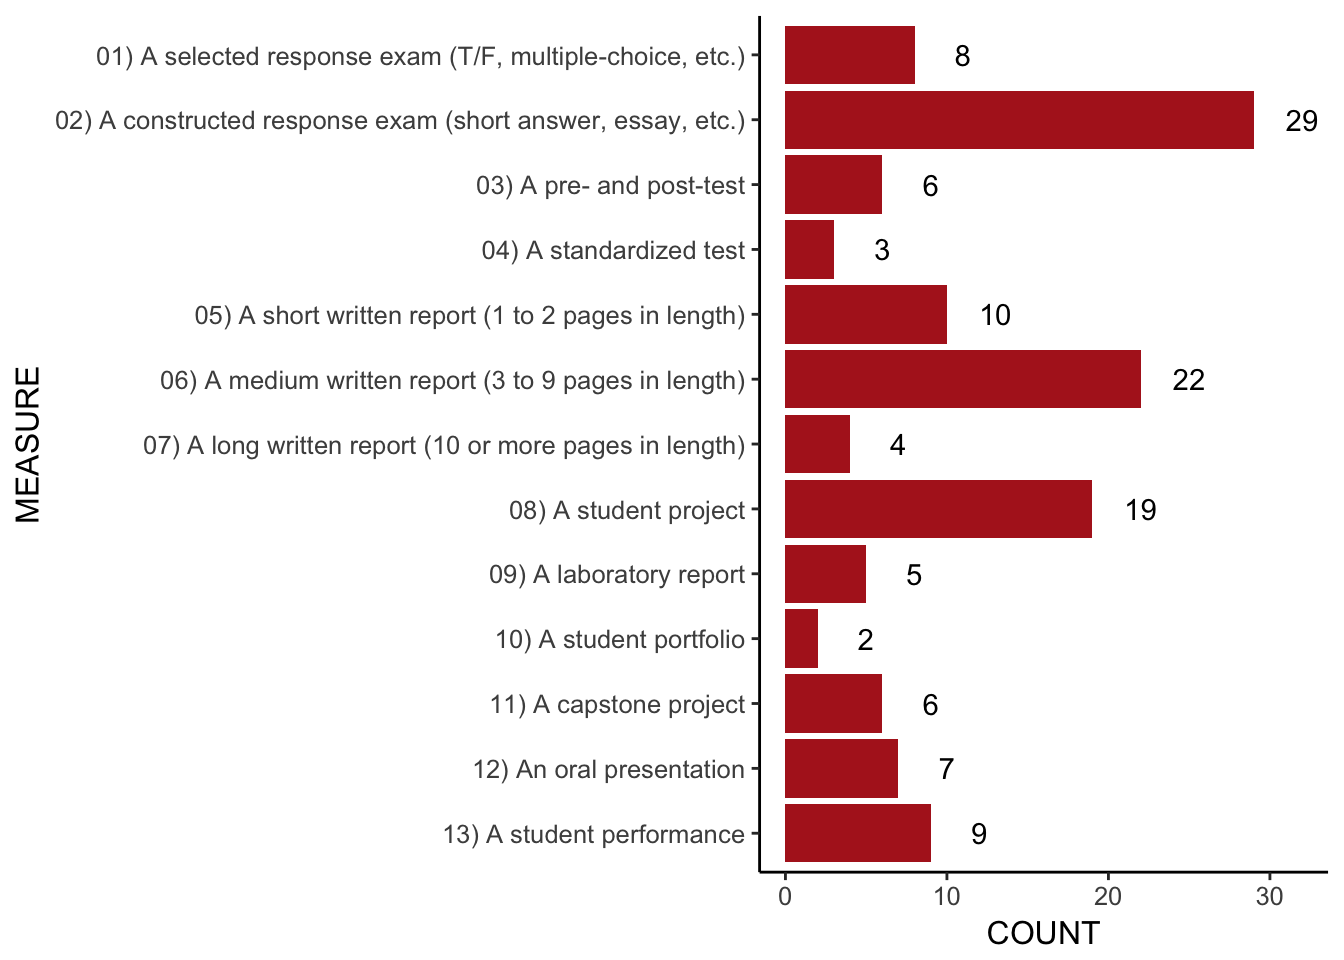
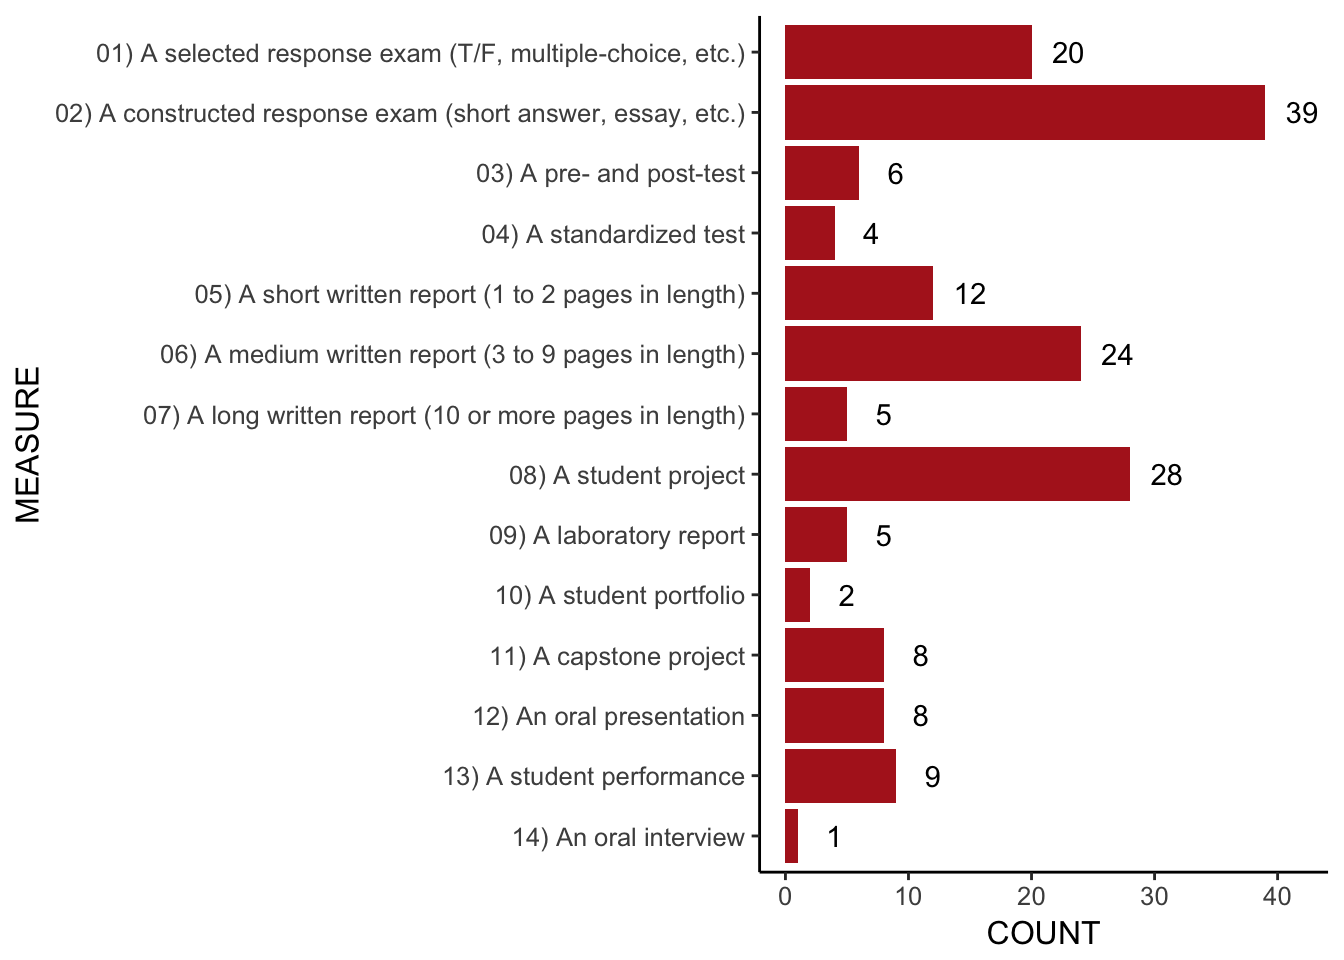
Added comparison betweem semesters

diff --git a/docs/Report-1801.html b/docs/Report-1801.html
@@ -111,7 +111,8 @@
 <div id="abstract" class="section level1 unnumbered">
 <h1>Abstract</h1>
 <blockquote>
-<p>“Assessment is not a spreadsheet; it’s a conversation.” — Irmeli Halinen</p>
+<p><em>Assessment is not a spreadsheet; it’s a conversation.</em><br />
+— Irmeli Halinen</p>
 </blockquote>
 <p>Lorem ipsum dolor sit amet, consectetur adipiscing elit. Curabitur pellentesque tortor ac turpis congue venenatis. Curabitur congue justo est, non feugiat massa euismod sit amet. Fusce tincidunt, sapien in malesuada tempus, sem mi interdum turpis, in finibus sem nisl sed ex. Mauris in tristique nisl. Nunc pellentesque metus et velit aliquam, eu rhoncus diam condimentum. Quisque nec libero at odio tempor aliquam. Fusce at lacus porttitor, lobortis nisl nec, commodo tellus. Phasellus interdum sapien varius ipsum consectetur tincidunt. Aenean posuere turpis at efficitur lobortis. Lorem ipsum dolor sit amet, consectetur adipiscing elit. Curabitur pellentesque tortor ac turpis congue venenatis. Curabitur congue justo est, non feugiat massa euismod sit amet. Fusce tincidunt, sapien in malesuada tempus, sem mi interdum turpis, in finibus sem nisl sed ex. Mauris in tristique nisl. Nunc pellentesque metus et velit aliquam, eu rhoncus diam condimentum. Quisque nec libero at odio tempor aliquam. Fusce at lacus porttitor, lobortis nisl nec, commodo tellus. Phasellus interdum sapien varius ipsum consectetur tincidunt. Aenean posuere turpis at efficitur lobortis.</p>
 </div>
@@ -163,24 +164,37 @@
 </div>
 <div id="results" class="section level1 unnumbered">
 <h1>Results and Discussion</h1>
-<p>A total of 130 registrations have been completed as of March 23, 2018. This represents the efforts of 57 faculty, and includes a total of 90 different courses. The distribution of the registrations between the eight core competencies is shown in figure <a href="#fig:plotByCompetency">1</a>.</p>
+<p>A total of 171 registrations have been completed as of April 04, 2018. This represents the efforts of 60 faculty, and includes a total of 107 different courses. These numbers are down from last semester as shown by Figure <a href="#fig:comparison">1</a>.</p>
+<div class="figure"><span id="fig:comparison"></span>
+<img src="Report-1801_files/figure-html/comparison-1.png" alt="Comparison of registrations between Fall 2017 and Spring 2018." width="672" />
+<p class="caption">
+Figure 1: Comparison of registrations between Fall 2017 and Spring 2018.
+</p>
+</div>
+<p>As compared to Fall 2017, the total number of registrations was down by 39.1%. Moreover, the number of faculty members registering to report assessment was strongly down (by 51.2%). This primarily reflects the fact the the Ferris Non-Tenured Faculty Organization members have elected to not participate in assessment. Since those members registered but did not report data last semester, the actual amound of data that we collect this semester may still be similar to that of last semester. Finally, the number of courses reporting is also down this semester (by 22.5%). This may reflect an actual difference in the number of General Education courses offered each semester. Or… it may just reflect a decreasing rate of partipation in this process.</p>
+<div class="question">
+<p>
+Are you concerned by the decrease in registrations this semester? What factors do you think are contributing to this trend? What suggestions do you have to address the decrease in registrations?
+</p>
+</div>
+<p>The distribution of the registrations between the eight core competencies for the spring semester is shown in Figure <a href="#fig:plotByCompetency">2</a>.</p>
 <div class="figure"><span id="fig:plotByCompetency"></span>
 <img src="Report-1801_files/figure-html/plotByCompetency-1.png" alt="Distribution of course registrations by core competency." width="672" />
 <p class="caption">
-Figure 1: Distribution of course registrations by core competency.
+Figure 2: Distribution of course registrations by core competency.
 </p>
 </div>
 <ul>
-<li>A total of 46 exams were registered (35.4%).<br />
+<li>A total of 69 exams were registered (%).<br />
 </li>
-<li>A total of 68 student products were registered (52.3%).<br />
+<li>A total of 84 student products were registered (%).<br />
 </li>
-<li>A total of 16 student performances were registered (12.3%).</li>
+<li>A total of 18 student performances were registered (%).</li>
 </ul>
 <div class="figure"><span id="fig:plotByMeasure"></span>
 <img src="Report-1801_files/figure-html/plotByMeasure-1.png" alt="Distribution of course registrations by standardized measure." width="672" />
 <p class="caption">
-Figure 2: Distribution of course registrations by standardized measure.
+Figure 3: Distribution of course registrations by standardized measure.
 </p>
 </div>
 <div class="question">
